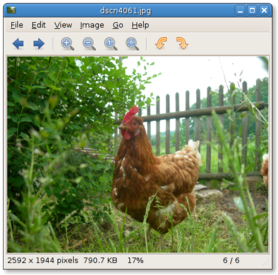
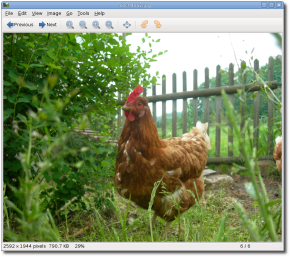
New screenshots.
2007-09-23  Claudio Saavedra  <csaavedra@alumnos.utalca.cl>

        * www.gnome.org/projects/eog/images/eog-print-preview-screenshot.png:
        * www.gnome.org/projects/eog/images/eog-properties-screenshot.png:
        * www.gnome.org/projects/eog/images/eog-metadata-screenshot.png:
        * www.gnome.org/projects/eog/images/eog-print-preview-screenshot-small.png:
        * www.gnome.org/projects/eog/images/eog-properties-screenshot-small.png:
        * www.gnome.org/projects/eog/images/eog-metadata-screenshot-small.png:

        New screenshots.

        * www.gnome.org/projects/eog/images/eog-collection-screenshot-small.png:
        * www.gnome.org/projects/eog/images/eog-collection-screenshot.png:
        * www.gnome.org/projects/eog/images/eog-screenshot.png:
        * www.gnome.org/projects/eog/images/eog-screenshot-small.png:
        * www.gnome.org/projects/eog/screenshots.html:

        Updated to reflect the 2.20 release.

svn path=/trunk/; revision=5541

diff --git a/www.gnome.org/projects/eog/screenshots.html b/www.gnome.org/projects/eog/screenshots.html
@@ -42,8 +42,30 @@
 	    <p>The collection view, which allows you to browse your images.</p>
 	  </div>
 	  
+
+	  <div class="screenshot">
+	    <a href="images/eog-properties-screenshot.png">
+	      <img src="images/eog-properties-screenshot-small.png" alt="image properties dialog"/>
+	    </a>
+	    <p>The properties dialog allows you to check the details of your image.</p>
+	  </div>	  
+
+
+	  <div class="screenshot">
+	    <a href="images/eog-metadata-screenshot.png">
+	      <img src="images/eog-metadata-screenshot-small.png" alt="image metadata dialog"/>
+	    </a>
+	    <p>...And also the EXIF/XMP metadata of your images.</p>
+	  </div>
+
+	  <div class="screenshot">
+	    <a href="images/eog-print-preview-screenshot.png">
+	      <img src="images/eog-print-preview-screenshot-small.png" alt="image print preview dialog"/>
+	    </a>
+	    <p>With the print dialog, you can set the size and position of your image for printing.</p>
+	  </div>
 	</div>
-	
+
       </div>
 
       <div id="sidebar">
